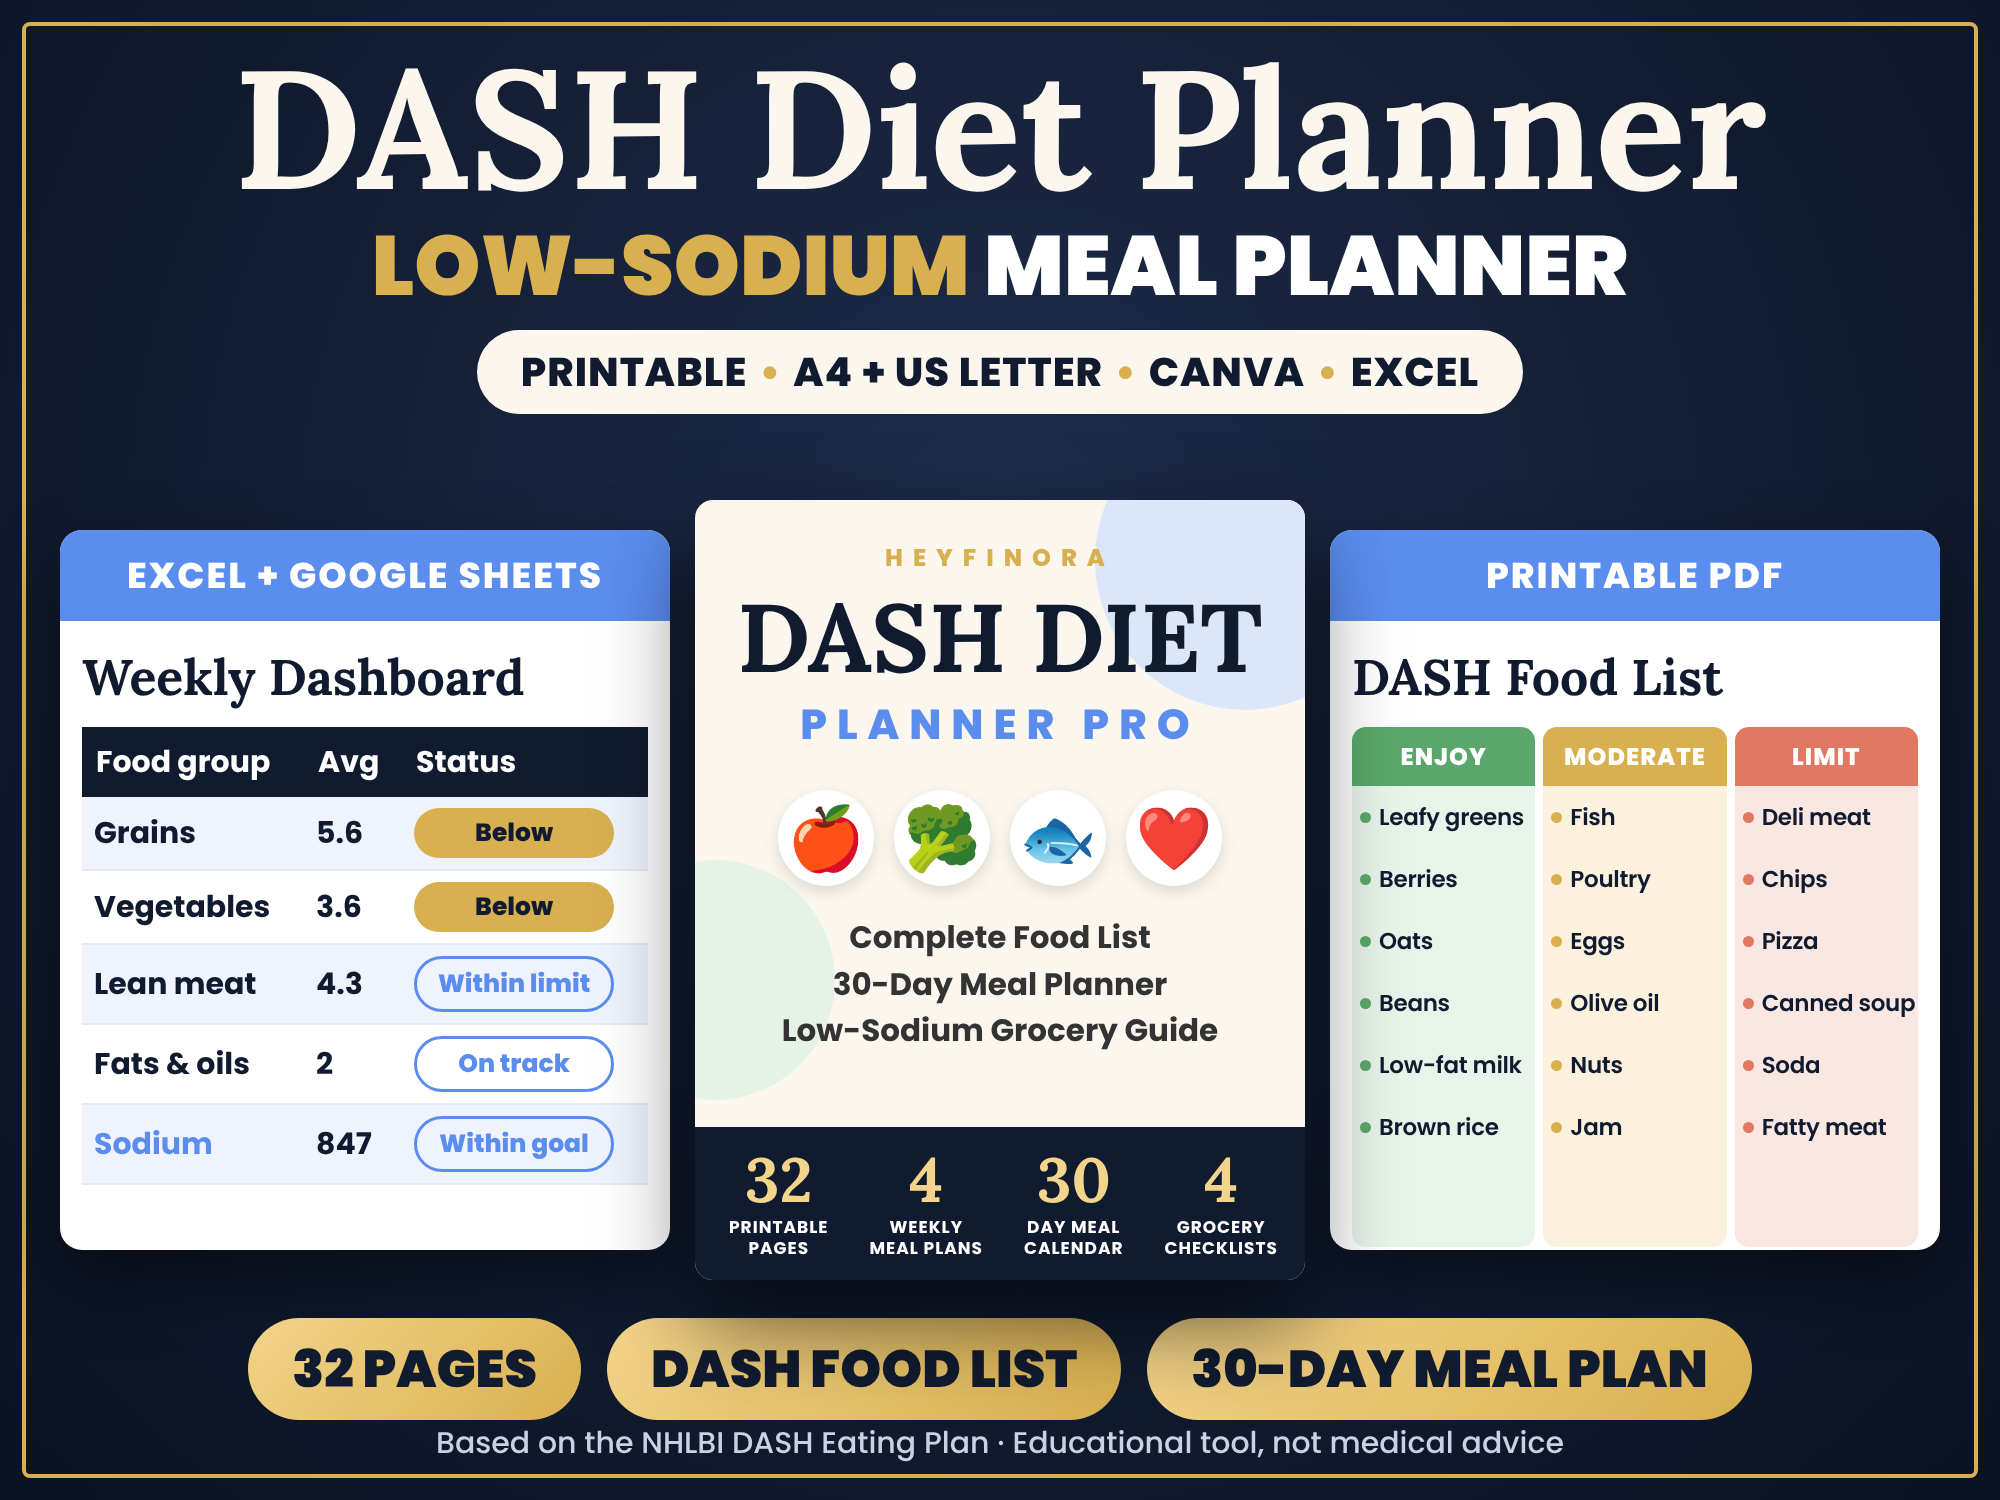
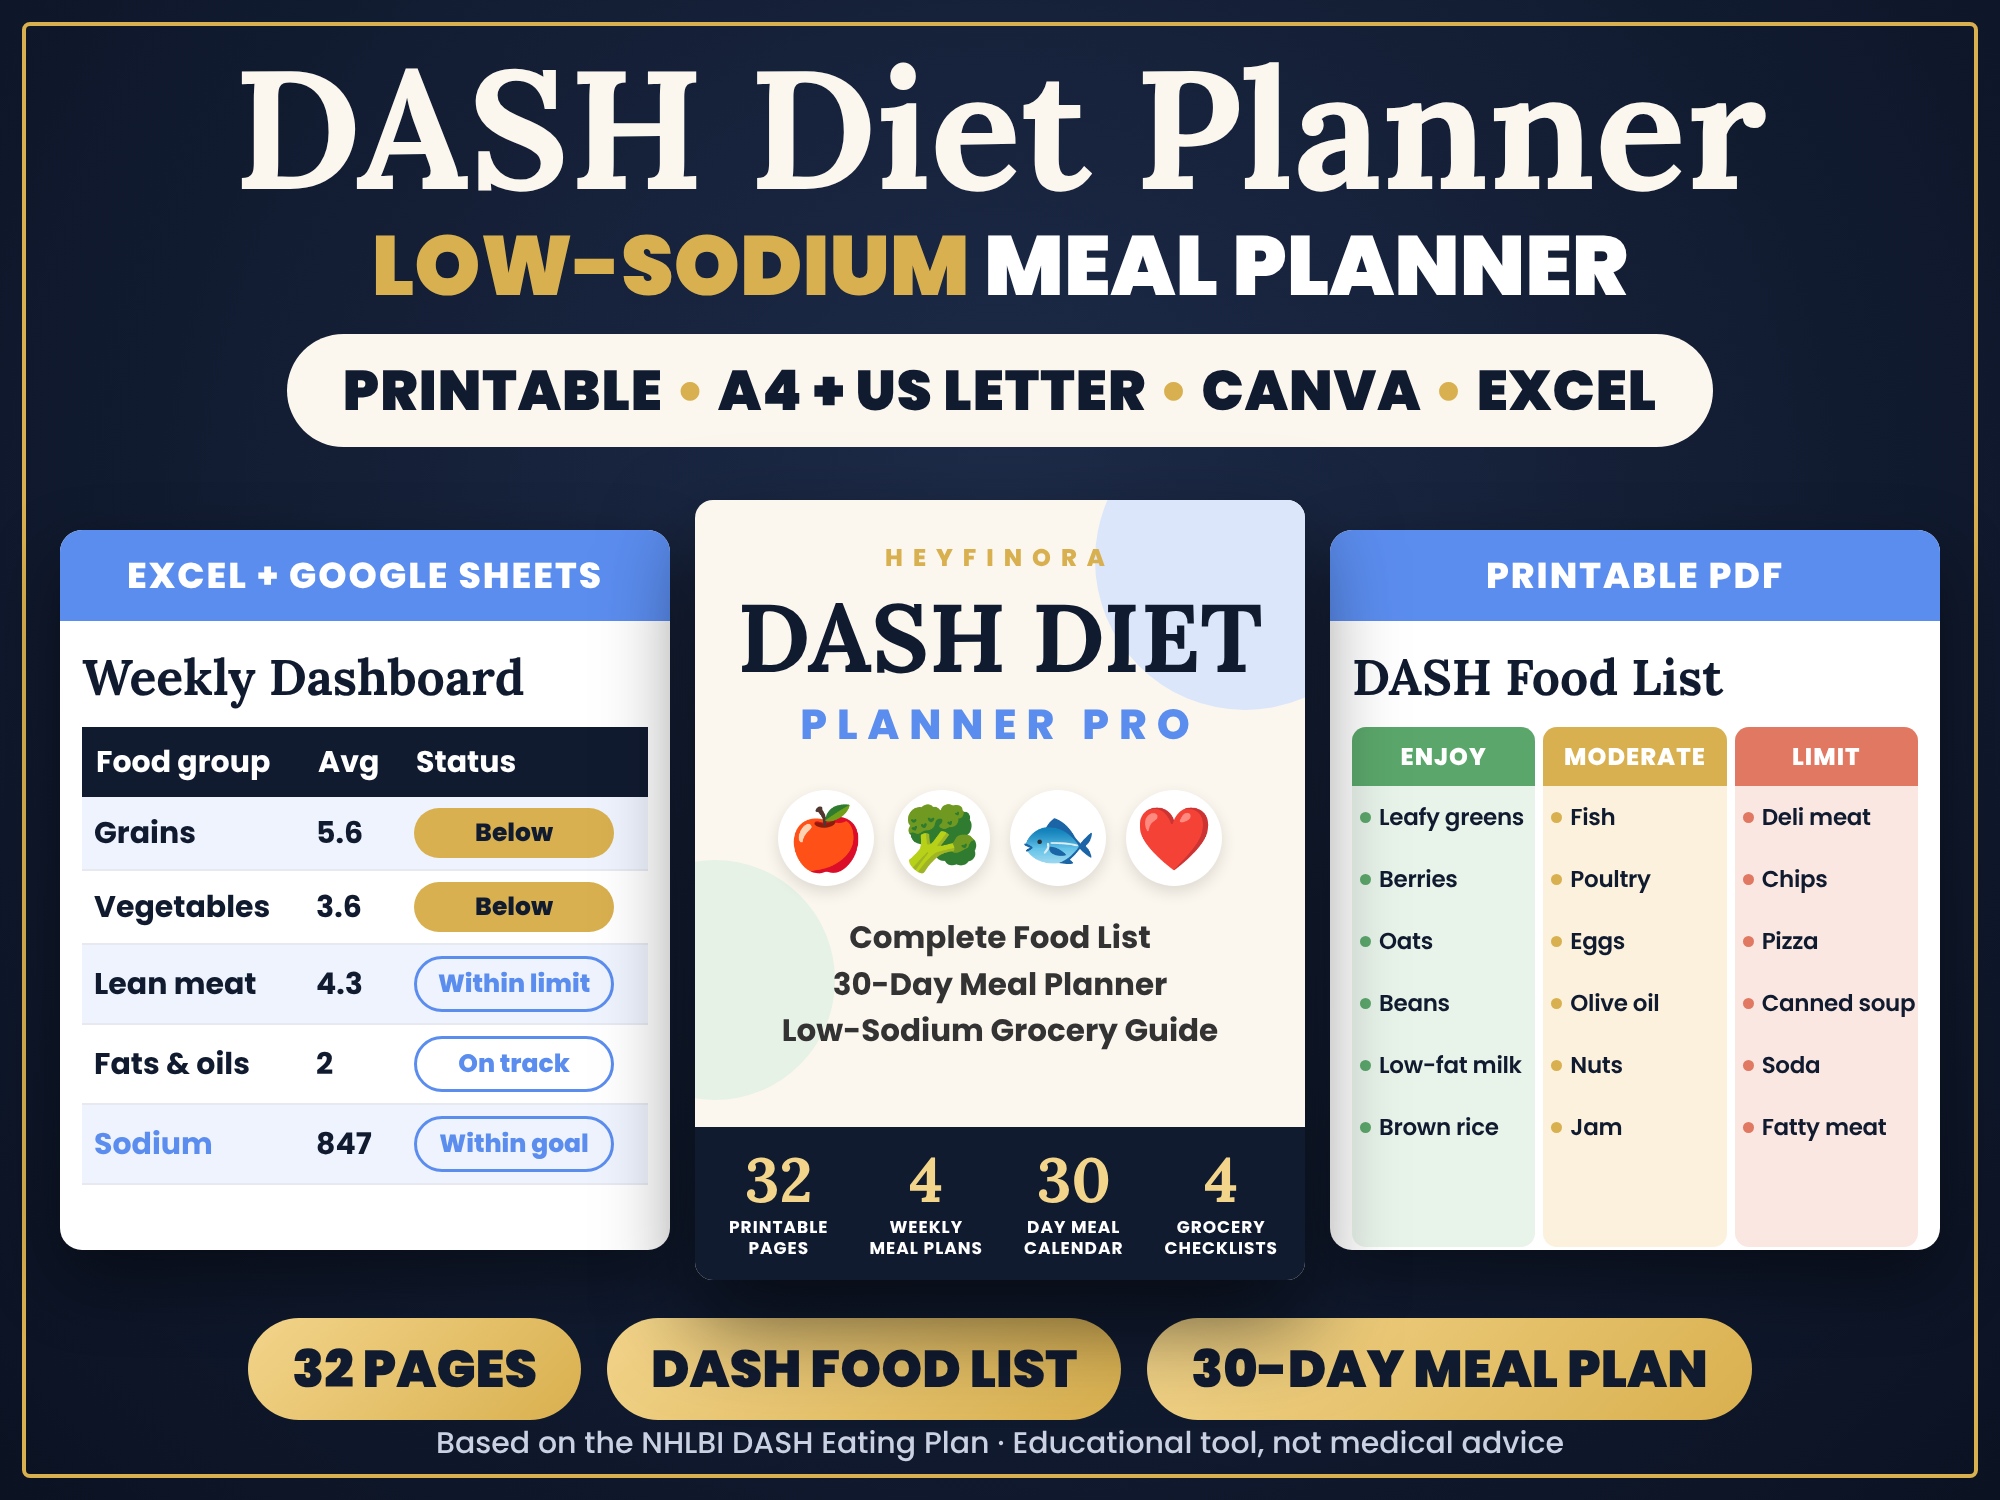
DASH Diet thumbnail: larger format line under subtitle
Claude-Session: https://claude.ai/code/session_01JXSyMovszCbL9FMwkaUbGU

Changed region(s): [[0.124, 0.2147, 0.868, 0.3067]]

diff --git a/images/src/dash-diet-thumbnail.html b/images/src/dash-diet-thumbnail.html
@@ -10,7 +10,7 @@ body{background:#777;font-family:Poppins,sans-serif;color:var(--navy)}
 .top{position:absolute;left:0;right:0;top:44px;text-align:center}
 h1{font-family:Lora,serif;font-weight:700;font-size:168px;line-height:1;color:#FBF7EE}
 .sub{font-weight:900;font-size:84px;line-height:1.1;color:#fff;margin-top:8px}.sub b{color:var(--gold)}
-.fmt{display:inline-block;margin-top:18px;background:var(--cream);color:var(--navy);font-weight:800;font-size:40px;padding:12px 44px;border-radius:999px;letter-spacing:1px}
+.fmt{display:inline-block;margin-top:22px;background:var(--cream);color:var(--navy);font-weight:900;font-size:56px;padding:14px 56px;border-radius:999px;letter-spacing:1px}
 .fmt i{font-style:normal;color:var(--gold);margin:0 12px}
 .card{position:absolute;top:530px;width:610px;height:720px;background:#fff;border-radius:22px;overflow:hidden;box-shadow:0 30px 70px rgba(0,0,0,.45)}
 .ch{background:var(--blue);color:#fff;text-align:center;font-weight:800;font-size:36px;letter-spacing:2px;padding:18px}
